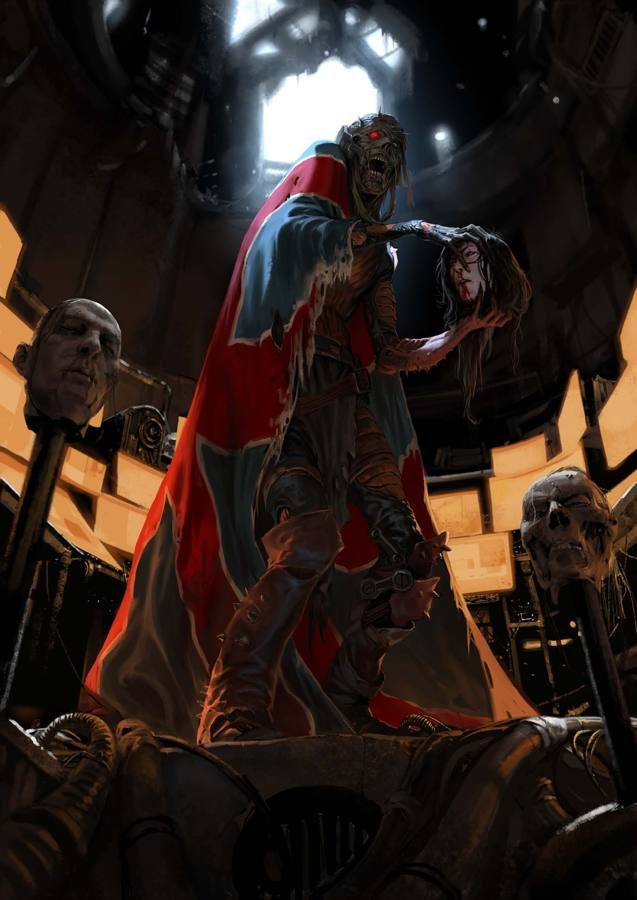
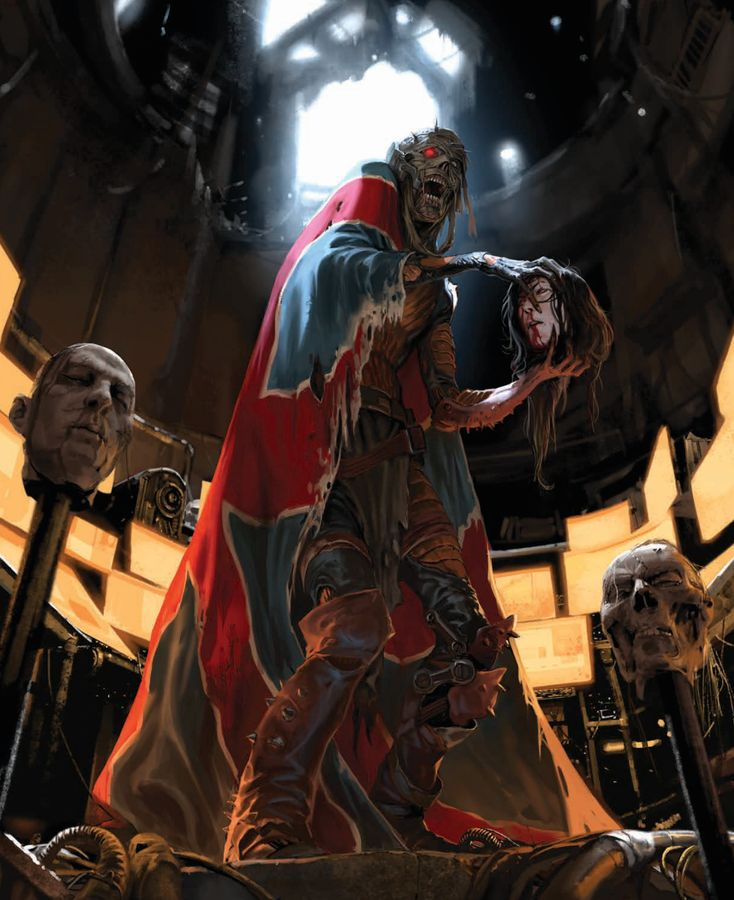
Maraudeurs : illustrations d'Argyre et de Triglav
Claude-Session: https://claude.ai/code/session_01LtkstC13MjDizu5DuuNSSV

diff --git a/sw.js b/sw.js
@@ -1,6 +1,6 @@
 // Codex du MJ – cache hors ligne. La version change à chaque mise à jour.
-const V="codex-202610271520";
-const FILES=["./", "app.js", "assets/BG_BLACK_1.jpg", "assets/BG_BLACK_12.jpg", "assets/Calluna-Regular.otf", "assets/DEGENESIS-v0.1.ttf", "assets/camp/avantposte-helvetique.jpg", "assets/camp/camp-romano.jpg", "assets/camp/cloitre.jpg", "assets/camp/lucatore.jpg", "assets/camp/moulin.jpg", "assets/dice/d1.png", "assets/dice/d2.png", "assets/dice/d3.png", "assets/dice/d4.png", "assets/dice/d5.png", "assets/dice/d6.png", "assets/fonts/barlow-condensed-latin-500-normal.woff2", "assets/fonts/barlow-condensed-latin-600-normal.woff2", "assets/fonts/barlow-condensed-latin-700-normal.woff2", "assets/logo-clean.svg", "assets/lore/b-amsumo.jpg", "assets/lore/b-discordance.jpg", "assets/lore/b-dormeur.jpg", "assets/lore/b-ganaress.jpg", "assets/lore/b-leviathan.jpg", "assets/lore/b-leviathaniques.jpg", "assets/lore/b-mammouths.jpg", "assets/lore/b-murnakir.jpg", "assets/lore/b-sporuleux.jpg", "assets/lore/b-tsar.jpg", "assets/lore/c-anabaptistes.jpg", "assets/lore/c-anubiens.jpg", "assets/lore/c-apocalyptiques.jpg", "assets/lore/c-blafards.jpg", "assets/lore/c-chroniqueurs.jpg", "assets/lore/c-clanistes.jpg", "assets/lore/c-ferrailleurs.jpg", "assets/lore/c-fleaux.jpg", "assets/lore/c-hellvetiques.jpg", "assets/lore/c-jehammetans.jpg", "assets/lore/c-juges.jpg", "assets/lore/c-neolibyens.jpg", "assets/lore/c-spitaliers.jpg", "assets/lore/k-adriani.jpg", "assets/lore/k-bordenoir.jpg", "assets/lore/k-britoni.jpg", "assets/lore/k-cafards.jpg", "assets/lore/k-corredores.jpg", "assets/lore/k-enemoi.jpg", "assets/lore/k-exaltiens.jpg", "assets/lore/k-flagellants.jpg", "assets/lore/k-garganti.jpg", "assets/lore/k-massai.jpg", "assets/lore/k-matadors.jpg", "assets/lore/k-pandoriens.jpg", "assets/lore/k-phosphorites.jpg", "assets/lore/k-pneumanciens.jpg", "assets/lore/k-resistance.jpg", "assets/lore/k-romano.jpg", "assets/lore/k-shabath.jpg", "assets/lore/k-storski.jpg", "assets/lore/k-stukov.jpg", "assets/lore/k-touloni.jpg", "assets/lore/k-usudi.jpg", "assets/lore/k-voivodules.jpg", "assets/lore/l-bassham.jpg", "assets/lore/l-bayonne.jpg", "assets/lore/l-black-atlantic.jpg", "assets/lore/l-brest.jpg", "assets/lore/l-chapelle-vicarent.jpg", "assets/lore/l-corpse.jpg", "assets/lore/l-entrepots.jpg", "assets/lore/l-lucatore.jpg", "assets/lore/l-mediterranee.jpg", "assets/lore/l-morlaix.jpg", "assets/lore/l-msm.jpg", "assets/lore/l-nantes.jpg", "assets/lore/l-nullpellia.jpg", "assets/lore/l-ouest-rhone.jpg", "assets/lore/l-plateformes.jpg", "assets/lore/l-port-lagagne.jpg", "assets/lore/l-pressoir.jpg", "assets/lore/l-rennes.jpg", "assets/lore/l-rhone.jpg", "assets/lore/l-romano-camp.jpg", "assets/lore/l-saint-brieuc.jpg", "assets/lore/l-saint-chenil.jpg", "assets/lore/l-stukov.jpg", "assets/lore/l-terres-putain.jpg", "assets/lore/l-toulon.jpg", "assets/lore/l-unya.jpg", "assets/lore/m-caire.jpg", "assets/lore/m-eshaton.jpg", "assets/lore/m-fractale.jpg", "assets/lore/m-spores.jpg", "assets/lore/m-ziggurat.jpg", "assets/lore/p-biokinesie.jpg", "assets/lore/p-dushani.jpg", "assets/lore/p-homo.jpg", "assets/lore/p-pheromanciens.jpg", "assets/lore/p-pregnostiques.jpg", "assets/lore/p-psychokinesie.jpg", "assets/lore/p-psychovores.jpg", "assets/lore/p-sepsie.jpg", "assets/lore/r-balkhans.jpg", "assets/lore/r-borca.jpg", "assets/lore/r-cathedrale.jpg", "assets/lore/r-franka.jpg", "assets/lore/r-hellvetica.jpg", "assets/lore/r-hybrispanie.jpg", "assets/lore/r-justitienne.jpg", "assets/lore/r-pollen.jpg", "assets/lore/r-purgare.jpg", "assets/lore/r-tripol.jpg", "assets/lore/s-biokinese.png", "assets/lore/s-dushan.png", "assets/lore/s-pheromancie.png", "assets/lore/s-pregnosticisme.png", "assets/lore/s-psychokinese.png", "assets/lore/x-argyre.jpg", "assets/lore/x-aries.jpg", "assets/lore/x-aspera.jpg", "assets/lore/x-chernobog.jpg", "assets/lore/x-gusev.jpg", "assets/pnj/ba-ampere.jpg", "assets/pnj/ba-arnika.jpg", "assets/pnj/ba-balor.jpg", "assets/pnj/ba-barringer.jpg", "assets/pnj/ba-bascule.jpg", "assets/pnj/ba-docteur-vega.jpg", "assets/pnj/ba-eris.jpg", "assets/pnj/ba-garlene.jpg", "assets/pnj/ba-helios.jpg", "assets/pnj/ba-ifrit.jpg", "assets/pnj/ba-imbali.jpg", "assets/pnj/ba-malinesse.jpg", "assets/pnj/ba-oppolus.jpg", "assets/pnj/ba-parel.jpg", "assets/pnj/ba-soufiane.jpg", "assets/pnj/ba-vicarent.jpg", "assets/pnj/ets-abacus.jpg", "assets/pnj/ets-barghest.jpg", "assets/pnj/ets-carmino-ferro.jpg", "assets/pnj/ets-ennio-benesato.jpg", "assets/pnj/ets-fernex-le-vigilant.jpg", "assets/pnj/ets-gala-lombardi.jpg", "assets/pnj/ets-leurre-5.jpg", "assets/pnj/ets-lucio-bastardo.jpg", "assets/pnj/ets-neva-l-emissaire-de-fer.jpg", "assets/pnj/ets-papa-chicco.jpg", "assets/pnj/ets-scirocco-le-pecheur.jpg", "assets/pnj/ets-tom-le-noir.jpg", "assets/pnj/ets-verena.jpg", "assets/pnj/ets-vikal.jpg", "assets/pnj/jdm-adonai.jpg", "assets/pnj/jdm-albatre.jpg", "assets/pnj/jdm-arcville.jpg", "assets/pnj/jdm-ayubu-le-limier.jpg", "assets/pnj/jdm-baptiste.jpg", "assets/pnj/jdm-callisto.jpg", "assets/pnj/jdm-crotale.jpg", "assets/pnj/jdm-deich.jpg", "assets/pnj/jdm-eisenhauer.jpg", "assets/pnj/jdm-facteur.jpg", "assets/pnj/jdm-hamza-abubakar-iii.jpg", "assets/pnj/jdm-hexell.jpg", "assets/pnj/jdm-hurlante.jpg", "assets/pnj/jdm-ivar.jpg", "assets/pnj/jdm-leurre-5.jpg", "assets/pnj/jdm-meridien.jpg", "assets/pnj/jdm-mirage.jpg", "assets/pnj/jdm-nephraim.jpg", "assets/pnj/jdm-nestor.jpg", "assets/pnj/jdm-opis-la-grenouille.jpg", "assets/pnj/jdm-orma.jpg", "assets/pnj/jdm-sabata.jpg", "assets/pnj/jdm-verican.jpg", "assets/pnj/jdm-wachsmann.jpg", "assets/pnj/jdm-zoe-morceau.jpg", "assets/pnj/jdm-zohra-consule-de-toulon.jpg", "assets/tarot/0.jpg", "assets/tarot/01.jpg", "assets/tarot/02.jpg", "assets/tarot/03.jpg", "assets/tarot/04.jpg", "assets/tarot/05.jpg", "assets/tarot/06.jpg", "assets/tarot/07.jpg", "assets/tarot/08.jpg", "assets/tarot/09.jpg", "assets/tarot/10.jpg", "assets/tarot/11.jpg", "assets/tarot/12.jpg", "assets/tarot/13.jpg", "assets/tarot/14.jpg", "assets/tarot/15.jpg", "assets/tarot/16.jpg", "assets/tarot/17.jpg", "assets/tarot/18.jpg", "assets/tarot/19.jpg", "assets/tarot/20.jpg", "assets/tarot/21.jpg", "assets/tarot/tarot-dos-01.jpg", "data/bazar.js", "data/campagne.js", "data/gen.js", "data/icons.js", "data/lore.js", "data/oracle.js", "data/potentiels.js", "data/regles.js", "data/survie-regles.js", "data/survie.js", "icons/icon-192.png", "icons/icon-512.png", "icons/maskable-512.png", "index.html", "manifest.webmanifest"];
+const V="codex-202610271530";
+const FILES=["./", "app.js", "assets/BG_BLACK_1.jpg", "assets/BG_BLACK_12.jpg", "assets/Calluna-Regular.otf", "assets/DEGENESIS-v0.1.ttf", "assets/camp/Benesato-armoiries.jpg", "assets/camp/abacus.jpg", "assets/camp/arrivee-lucatore.jpg", "assets/camp/attila.jpg", "assets/camp/avantposte-helvetique.jpg", "assets/camp/bargeist-vikal.jpg", "assets/camp/camp-romano.jpg", "assets/camp/chrono.jpg", "assets/camp/cloitre.jpg", "assets/camp/ennio-gala.jpg", "assets/camp/foret.jpg", "assets/camp/lucatore.jpg", "assets/camp/moulin.jpg", "assets/camp/neva.jpg", "assets/camp/papachico-neva.jpg", "assets/camp/scirocco.jpg", "assets/camp/sigle-bargeist.jpg", "assets/camp/t-luz.png", "assets/camp/t-octet.png", "assets/camp/t-pavel.png", "assets/camp/t-vex.png", "assets/camp/tomlenoir.jpg", "assets/camp/vikal.jpg", "assets/dice/d1.png", "assets/dice/d2.png", "assets/dice/d3.png", "assets/dice/d4.png", "assets/dice/d5.png", "assets/dice/d6.png", "assets/fonts/barlow-condensed-latin-500-normal.woff2", "assets/fonts/barlow-condensed-latin-600-normal.woff2", "assets/fonts/barlow-condensed-latin-700-normal.woff2", "assets/logo-clean.svg", "assets/lore/b-amsumo.jpg", "assets/lore/b-discordance.jpg", "assets/lore/b-dormeur.jpg", "assets/lore/b-ganaress.jpg", "assets/lore/b-leviathan.jpg", "assets/lore/b-leviathaniques.jpg", "assets/lore/b-mammouths.jpg", "assets/lore/b-murnakir.jpg", "assets/lore/b-sporuleux.jpg", "assets/lore/b-tsar.jpg", "assets/lore/c-anabaptistes.jpg", "assets/lore/c-anubiens.jpg", "assets/lore/c-apocalyptiques.jpg", "assets/lore/c-blafards.jpg", "assets/lore/c-chroniqueurs.jpg", "assets/lore/c-clanistes.jpg", "assets/lore/c-ferrailleurs.jpg", "assets/lore/c-fleaux.jpg", "assets/lore/c-hellvetiques.jpg", "assets/lore/c-jehammetans.jpg", "assets/lore/c-juges.jpg", "assets/lore/c-neolibyens.jpg", "assets/lore/c-spitaliers.jpg", "assets/lore/k-adriani.jpg", "assets/lore/k-bordenoir.jpg", "assets/lore/k-britoni.jpg", "assets/lore/k-cafards.jpg", "assets/lore/k-corredores.jpg", "assets/lore/k-enemoi.jpg", "assets/lore/k-exaltiens.jpg", "assets/lore/k-flagellants.jpg", "assets/lore/k-garganti.jpg", "assets/lore/k-massai.jpg", "assets/lore/k-matadors.jpg", "assets/lore/k-pandoriens.jpg", "assets/lore/k-phosphorites.jpg", "assets/lore/k-pneumanciens.jpg", "assets/lore/k-resistance.jpg", "assets/lore/k-romano.jpg", "assets/lore/k-shabath.jpg", "assets/lore/k-storski.jpg", "assets/lore/k-stukov.jpg", "assets/lore/k-touloni.jpg", "assets/lore/k-usudi.jpg", "assets/lore/k-voivodules.jpg", "assets/lore/l-bassham.jpg", "assets/lore/l-bayonne.jpg", "assets/lore/l-black-atlantic.jpg", "assets/lore/l-brest.jpg", "assets/lore/l-chapelle-vicarent.jpg", "assets/lore/l-corpse.jpg", "assets/lore/l-entrepots.jpg", "assets/lore/l-lucatore.jpg", "assets/lore/l-mediterranee.jpg", "assets/lore/l-morlaix.jpg", "assets/lore/l-msm.jpg", "assets/lore/l-nantes.jpg", "assets/lore/l-nullpellia.jpg", "assets/lore/l-ouest-rhone.jpg", "assets/lore/l-plateformes.jpg", "assets/lore/l-port-lagagne.jpg", "assets/lore/l-pressoir.jpg", "assets/lore/l-rennes.jpg", "assets/lore/l-rhone.jpg", "assets/lore/l-romano-camp.jpg", "assets/lore/l-saint-brieuc.jpg", "assets/lore/l-saint-chenil.jpg", "assets/lore/l-stukov.jpg", "assets/lore/l-terres-putain.jpg", "assets/lore/l-toulon.jpg", "assets/lore/l-unya.jpg", "assets/lore/m-caire.jpg", "assets/lore/m-eshaton.jpg", "assets/lore/m-fractale.jpg", "assets/lore/m-spores.jpg", "assets/lore/m-ziggurat.jpg", "assets/lore/p-biokinesie.jpg", "assets/lore/p-dushani.jpg", "assets/lore/p-homo.jpg", "assets/lore/p-pheromanciens.jpg", "assets/lore/p-pregnostiques.jpg", "assets/lore/p-psychokinesie.jpg", "assets/lore/p-psychovores.jpg", "assets/lore/p-sepsie.jpg", "assets/lore/r-balkhans.jpg", "assets/lore/r-borca.jpg", "assets/lore/r-cathedrale.jpg", "assets/lore/r-franka.jpg", "assets/lore/r-hellvetica.jpg", "assets/lore/r-hybrispanie.jpg", "assets/lore/r-justitienne.jpg", "assets/lore/r-pollen.jpg", "assets/lore/r-purgare.jpg", "assets/lore/r-tripol.jpg", "assets/lore/s-biokinese.png", "assets/lore/s-dushan.png", "assets/lore/s-pheromancie.png", "assets/lore/s-pregnosticisme.png", "assets/lore/s-psychokinese.png", "assets/lore/x-argyre-hero.jpg", "assets/lore/x-argyre.jpg", "assets/lore/x-aries.jpg", "assets/lore/x-aspera.jpg", "assets/lore/x-chernobog.jpg", "assets/lore/x-gusev.jpg", "assets/lore/x-triglav.jpg", "assets/pnj/ba-ampere.jpg", "assets/pnj/ba-arnika.jpg", "assets/pnj/ba-balor.jpg", "assets/pnj/ba-barringer.jpg", "assets/pnj/ba-bascule.jpg", "assets/pnj/ba-docteur-vega.jpg", "assets/pnj/ba-eris.jpg", "assets/pnj/ba-garlene.jpg", "assets/pnj/ba-helios.jpg", "assets/pnj/ba-ifrit.jpg", "assets/pnj/ba-imbali.jpg", "assets/pnj/ba-malinesse.jpg", "assets/pnj/ba-oppolus.jpg", "assets/pnj/ba-parel.jpg", "assets/pnj/ba-soufiane.jpg", "assets/pnj/ba-vicarent.jpg", "assets/pnj/ets-abacus.jpg", "assets/pnj/ets-barghest.jpg", "assets/pnj/ets-carmino-ferro.jpg", "assets/pnj/ets-ennio-benesato.jpg", "assets/pnj/ets-fernex-le-vigilant.jpg", "assets/pnj/ets-gala-lombardi.jpg", "assets/pnj/ets-leurre-5.jpg", "assets/pnj/ets-lucio-bastardo.jpg", "assets/pnj/ets-neva-l-emissaire-de-fer.jpg", "assets/pnj/ets-papa-chicco.jpg", "assets/pnj/ets-scirocco-le-pecheur.jpg", "assets/pnj/ets-tom-le-noir.jpg", "assets/pnj/ets-verena.jpg", "assets/pnj/ets-vikal.jpg", "assets/pnj/jdm-adonai.jpg", "assets/pnj/jdm-albatre.jpg", "assets/pnj/jdm-arcville.jpg", "assets/pnj/jdm-ayubu-le-limier.jpg", "assets/pnj/jdm-baptiste.jpg", "assets/pnj/jdm-callisto.jpg", "assets/pnj/jdm-crotale.jpg", "assets/pnj/jdm-deich.jpg", "assets/pnj/jdm-eisenhauer.jpg", "assets/pnj/jdm-facteur.jpg", "assets/pnj/jdm-hamza-abubakar-iii.jpg", "assets/pnj/jdm-hexell.jpg", "assets/pnj/jdm-hurlante.jpg", "assets/pnj/jdm-ivar.jpg", "assets/pnj/jdm-leurre-5.jpg", "assets/pnj/jdm-meridien.jpg", "assets/pnj/jdm-mirage.jpg", "assets/pnj/jdm-nephraim.jpg", "assets/pnj/jdm-nestor.jpg", "assets/pnj/jdm-opis-la-grenouille.jpg", "assets/pnj/jdm-orma.jpg", "assets/pnj/jdm-sabata.jpg", "assets/pnj/jdm-verican.jpg", "assets/pnj/jdm-wachsmann.jpg", "assets/pnj/jdm-zoe-morceau.jpg", "assets/pnj/jdm-zohra-consule-de-toulon.jpg", "assets/tarot/0.jpg", "assets/tarot/01.jpg", "assets/tarot/02.jpg", "assets/tarot/03.jpg", "assets/tarot/04.jpg", "assets/tarot/05.jpg", "assets/tarot/06.jpg", "assets/tarot/07.jpg", "assets/tarot/08.jpg", "assets/tarot/09.jpg", "assets/tarot/10.jpg", "assets/tarot/11.jpg", "assets/tarot/12.jpg", "assets/tarot/13.jpg", "assets/tarot/14.jpg", "assets/tarot/15.jpg", "assets/tarot/16.jpg", "assets/tarot/17.jpg", "assets/tarot/18.jpg", "assets/tarot/19.jpg", "assets/tarot/20.jpg", "assets/tarot/21.jpg", "assets/tarot/tarot-dos-01.jpg", "data/bazar.js", "data/campagne.js", "data/gen.js", "data/icons.js", "data/lore.js", "data/oracle.js", "data/potentiels.js", "data/regles.js", "data/survie-regles.js", "data/survie.js", "icons/icon-192.png", "icons/icon-512.png", "icons/maskable-512.png", "index.html", "manifest.webmanifest"];
 self.addEventListener("install",e=>{e.waitUntil(caches.open(V).then(c=>c.addAll(FILES)).then(()=>self.skipWaiting()))});
 self.addEventListener("activate",e=>{e.waitUntil(caches.keys().then(ks=>Promise.all(ks.filter(k=>k!==V).map(k=>caches.delete(k)))).then(()=>self.clients.claim()))});
 self.addEventListener("fetch",e=>{if(e.request.method!=="GET")return;

diff --git a/data/lore.js b/data/lore.js
@@ -345,7 +345,7 @@ tabs:[
  {t:"Mémétique", ref:"A p.213-219", h:`
 <p>Les Dormeurs voyagent en petits groupes menés par un <b>Sociocybernétique</b> : ils infiltrent clans et cultes, montent dans la hiérarchie, font de leurs victimes des marionnettes mémétiques et les dressent les unes contre les autres jusqu'à ce que seule reste la civilisation la plus forte. Puis la cascade suivante s'éveille.</p>
 <p>Les Chroniqueurs mènent depuis cinq siècles une guerre de l'ombre contre le <b>projet Tannhäuser</b> : chaque cascade est plus puissante que la précédente, et leur Serveur n'a pu étudier des Dormeurs que jusqu'à la cascade 600. Pour eux, les Maraudeurs ont inventé la mémétique.</p>`},
- {t:"Les Maraudeurs", img:"assets/lore/x-argyre.jpg", gal:[["assets/lore/x-aspera.jpg","Aspera"],["assets/lore/x-aries.jpg","Ariès"],["assets/lore/x-chernobog.jpg","Chernobog"],["assets/lore/x-gusev.jpg","Gusev"]], ref:"PP p.42-45 · K p.272-276", h:`
+ {t:"Les Maraudeurs", img:"assets/lore/x-argyre-hero.jpg", gal:[["assets/lore/x-argyre.jpg","Argyre"],["assets/lore/x-aries.jpg","Ariès"],["assets/lore/x-aspera.jpg","Aspera"],["assets/lore/x-chernobog.jpg","Chernobog"],["assets/lore/x-gusev.jpg","Gusev"],["assets/lore/x-triglav.jpg","Triglav"]], ref:"PP p.42-45 · K p.272-276", h:`
 <p>Entités séculaires vêtues de bandages maculés de pus, qui chassent les Dormeurs. Les machines leur obéissent. Ils survivent grâce à l'<b>Ambroisie</b>, des cartouches de RG qui renouvellent leur sang de nanites. Repères : dôme de rayons, villages en cendres, dieu en décomposition, murs d'images.</p>
 <ul><li><b>Argyre le Vautour</b> : maître de la Britannie depuis 2390 (voir Briton).</li>
 <li><b>Ariès le Bélier</b> : a mené les Jehammétans à la victoire.</li>
